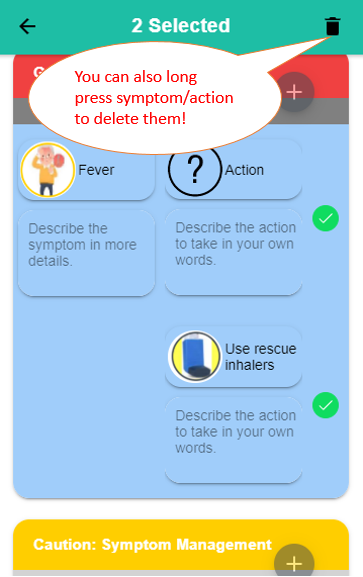
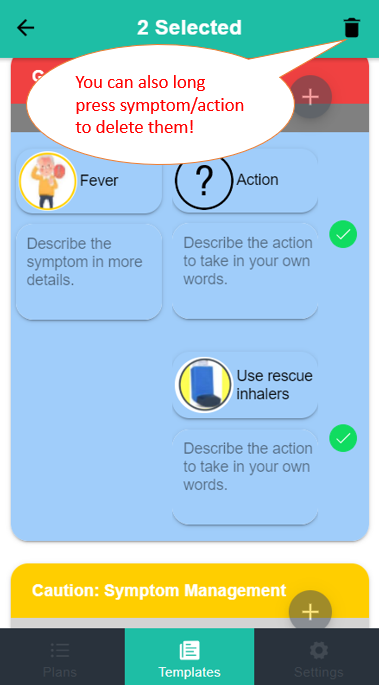
fix image validation, fix symptom action added properly, fix PDF able to export when from template create crisis plan, when press back sets plan name and language, plan details are saved if back, update search plan to be plan name and patient name, update tutorial pictures with bottom bar

diff --git a/src/app/plans/editplan/editplan.page.ts b/src/app/plans/editplan/editplan.page.ts
@@ -28,7 +28,7 @@ export class EditplanPage implements OnInit {
   }
 
   something = this.formBuilder.group({
-    detailname: ['', Validators.compose([Validators.maxLength(30), Validators.pattern(/(?!\s*$)/), Validators.required])],
+    detailname: ['', Validators.compose([Validators.maxLength(30), Validators.pattern(/(?!\s*$)/), Validators.required])],  
     detailnric: ['', Validators.compose([Validators.minLength(5), Validators.pattern(/(?!\s*$)/), Validators.required])],
     detailtcs: ['', Validators.compose([Validators.maxLength(30), Validators.pattern(/(?!\s*$)/), Validators.required])],
     detailcontact: ['', Validators.compose([Validators.minLength(5), Validators.pattern(/^[0-9]+$/), Validators.required])],
@@ -164,7 +164,7 @@ export class EditplanPage implements OnInit {
 
     let scale = 2; //https://github.com/tsayen/dom-to-image/issues/69
     domtoimage.toPng(div, { height: div.offsetHeight * 2, width: div.offsetWidth * 2, style: { transform: `scale(${scale}) translate(${div.offsetWidth / 2 / scale}px, ${div.offsetHeight / 2 / scale}px)` } }).then(dataUrl => {
-
+    
       const doc = new jsPDF('p', 'mm', 'a4', true);
       doc.deletePage(1); //https://stackoverflow.com/questions/29578721/image-in-pdf-cut-off-how-to-make-a-canvas-fit-entirely-in-a-pdf-page/42295522#42295522
       doc.addPage(millimeters.width * 2, millimeters.height * 1.95);
@@ -187,7 +187,7 @@ export class EditplanPage implements OnInit {
         this.loading.dismiss();
         this.templateService.presentToastWithOptions("PDF file has been created!");
         this.fileOpener.open(success.nativeURL, "application/pdf").catch(() => this.templateService.presentToastWithOptions("Please install a PDF Viewer such as Acrobat!"));
-      }).catch((error) => console.log("Cannot Create File " + JSON.stringify(error, null, 2)));
+      }).catch((error) => this.templateService.presentToastWithOptions("An error has occured!!!"));
     })
   }
 

diff --git a/src/app/plans/plan-details/plan-details.page.ts b/src/app/plans/plan-details/plan-details.page.ts
@@ -21,7 +21,7 @@ export class PlanDetailsPage implements OnInit {
   });
 
   constructor(private router: Router, private PlanService: PlanService, private activatedRoute: ActivatedRoute,
-    private templateService: TemplateService, public formBuilder: FormBuilder) {
+    private templateService: TemplateService, public formBuilder: FormBuilder, private planService: PlanService) {
   }
 
   planName: any;
@@ -89,6 +89,8 @@ export class PlanDetailsPage implements OnInit {
   @ViewChild('input') thisInput;
   ionViewWillEnter() {
     // this.frontViewData = this.templateService.getFrontViewData();
+    let obj = this.planService.getExtras("detailextras");
+    obj && (this.thisgroup.controls.detailname.setValue(obj.detailname), this.thisgroup.controls.detailnric.setValue(obj.detailnric), this.thisgroup.controls.detailtcs.setValue(obj.detailtcs), this.thisgroup.controls.detailcontact.setValue(obj.detailcontact));
     this.android = this.templateService.checkPlatformAndroid();
     this.planName = this.activatedRoute.snapshot.paramMap.get('planName');
     this.defaultLanguage = +this.activatedRoute.snapshot.paramMap.get("languageID");
@@ -97,8 +99,10 @@ export class PlanDetailsPage implements OnInit {
     this.thisInput.setFocus();
   }
 
-  goBackToTemplate() {
-    this.templateService.goToViewPageFromEdit();
+  goBackToNewPlan() {
+    this.PlanService.setExtras("extras", {"language": this.defaultLanguage, "name": this.planName});
+    this.PlanService.setExtras("detailextras", {"detailname": this.thisgroup.controls.detailname.value, "detailnric": this.thisgroup.controls.detailnric.value, "detailtcs": this.thisgroup.controls.detailtcs.value, "detailcontact": this.thisgroup.controls.detailcontact.value});
+    // this.templateService.goToViewPageFromEdit();
   }
 
   getArray(id) {

diff --git a/src/app/plans/new-plan/new-plan.page.ts b/src/app/plans/new-plan/new-plan.page.ts
@@ -1,3 +1,4 @@
+import { PlanService } from './../../services/plan.service';
 import { TemplateService } from 'src/app/services/template.service';
 import { Component, OnInit, Injectable, ViewChild } from '@angular/core';
 import { Router } from '@angular/router';
@@ -21,7 +22,7 @@ export class NewPlanPage implements OnInit {
   submitted=false;
   android: boolean;
 
-  constructor(private router: Router, private templateService: TemplateService, public formBuilder: FormBuilder, private event: Events) {
+  constructor(private router: Router, private templateService: TemplateService, public formBuilder: FormBuilder, private event: Events, private planService: PlanService) {
   }
 
   ngOnInit() {
@@ -43,6 +44,8 @@ export class NewPlanPage implements OnInit {
   }
 
   cancel() {
+    this.planService.resetExtras();
+    this.resetPlan();    
     this.router.navigateByUrl('/tabs/plans');
   }
 
@@ -50,14 +53,13 @@ export class NewPlanPage implements OnInit {
     this.defaultLanguage = 0;
     this.slideOneForm.reset();
     this.submitted = false;
+    this.templateService.resetArray();
   }
 
   ionViewWillEnter() {
+    let obj = this.planService.getExtras("extras");
+    obj && (this.slideOneForm.controls.firstName.setValue(obj.name), this.defaultLanguage = obj.language);
     this.android = this.templateService.checkPlatformAndroid();
-    this.event.subscribe("newPlan", () => {
-      this.resetPlan();
-      this.event.unsubscribe("newPlan");
-    })
   }
 
   ionViewDidEnter() {

diff --git a/src/app/settings/edit-settings/edit-settings.page.ts b/src/app/settings/edit-settings/edit-settings.page.ts
@@ -85,12 +85,15 @@ export class EditSettingsPage implements OnInit {
       tmName: value.tamil.trim(),
       icon: this.contentDetails.icon
     }
-    let functionToCall = this.editID == "add" ? 
-      (this.settingService.addReusable(this.selectedTab, newValues), this.templateService.presentToastWithOptions("Added " + this.selectedTab.toLowerCase()))
-      : (this.settingService.updateOneSetting(this.selectedTab, newValues), this.templateService.presentToastWithOptions("Updated " + this.selectedTab.toLowerCase()))
-    functionToCall.then(() => {
-      this.goBack();
-    })
+    this.editID == "add" ? 
+      this.settingService.addReusable(this.selectedTab, newValues).then(() => {
+        this.templateService.presentToastWithOptions("Added " + this.selectedTab.toLowerCase());
+        this.router.navigate(['/tabs/settings/symptomAction']);
+      }) :
+      this.settingService.updateOneSetting(this.selectedTab, newValues).then(() => {
+        this.templateService.presentToastWithOptions("Updated " + this.selectedTab.toLowerCase());
+        this.router.navigate(['/tabs/settings/symptomAction']);
+      });
   }
 
   goBack() {

diff --git a/src/app/tabs/tabs.page.ts b/src/app/tabs/tabs.page.ts
@@ -1,6 +1,7 @@
 import { Component, OnInit } from '@angular/core';
 import { NavController } from '@ionic/angular';
 import { TemplateService } from '../services/template.service';
+import { PlanService } from '../services/plan.service';
 
 @Component({
   selector: 'app-tabs',
@@ -9,7 +10,7 @@ import { TemplateService } from '../services/template.service';
 })
 export class TabsPage implements OnInit {
 
-  constructor(private navCtrl: NavController, private templateService: TemplateService) { }
+  constructor(private navCtrl: NavController, private templateService: TemplateService, private planService: PlanService) { }
 
   styles = ['color: green', 'background: yellow'].join(";");
 
@@ -17,6 +18,7 @@ export class TabsPage implements OnInit {
 
   goToRoot(location) {
     let rootLocations = ["/tabs/plans", "/tabs/templates", "/tabs/settings"];
+    this.planService.resetExtras();
     this.navCtrl.navigateRoot(rootLocations[location]);
   }
 

diff --git a/src/app/plans/view-plans/view-plans.page.ts b/src/app/plans/view-plans/view-plans.page.ts
@@ -36,7 +36,8 @@ export class ViewPlansPage implements OnInit {
 
   //search item(s)
   setFilteredItems() {
-    this.sortedDetails = this.details.filter(result => result.planName.toLowerCase().indexOf(this.searchTerm.toLowerCase()) !== -1);
+    this.sortedDetails = this.details.filter(result => 
+      result.planName.toLowerCase().indexOf(this.searchTerm.toLowerCase()) !== -1 || result.name.toLowerCase().indexOf(this.searchTerm.toLowerCase()) !== -1);
     this.mylist.closeSlidingItems();
     // this.PlanService.getPlanFilter(this.searchTerm).then(sname => {
     //   this.mylist.closeSlidingItems();
@@ -48,7 +49,7 @@ export class ViewPlansPage implements OnInit {
 
   //redirect
   onClick() {
-    this.router.navigateByUrl('/tabs/plans/newPlan').then(() => this.event.publish("newPlan"))
+    this.router.navigateByUrl('/tabs/plans/newPlan');
   }
 
   goEdit(item) {

diff --git a/src/app/services/plan.service.ts b/src/app/services/plan.service.ts
@@ -12,6 +12,20 @@ export class PlanService {
 
   constructor(private storage: Storage, private templateService: TemplateService) {
   }
+  
+  extras:any;
+  detailextras: any;
+
+  setExtras(type, data) {
+    type == "extras" ? this.extras = data : this.detailextras = data;
+  }
+  getExtras(type) {
+    return type == "extras" ? this.extras : this.detailextras
+  }
+  resetExtras() {
+    this.extras = null;
+    this.detailextras = null;
+  }
 
   getEditDetails(id) {
     return this.storage.get(key).then(result => {

diff --git a/src/app/templates/new-templates/new-templates.page.ts b/src/app/templates/new-templates/new-templates.page.ts
@@ -132,7 +132,7 @@ export class NewTemplatesPage implements OnInit {
           })
         }
         else if (typeOfAction == "Create Crisis Plan") {
-          this.router.navigateByUrl("/tabs/plans/details/" + this.defaultLanguage + "/" + alertData);
+          this.router.navigateByUrl("/tabs/plans/details/" + this.defaultLanguage + "/" + alertData, {replaceUrl: true});
         }
         else {
           this.addTemplate(alertData);

diff --git a/src/app/plans/plan-details/plan-details.page.html b/src/app/plans/plan-details/plan-details.page.html
@@ -3,7 +3,7 @@
     <ion-toolbar color="primary" *ngIf="checked.length == 0">
   
       <ion-buttons slot="start">
-        <ion-back-button defaultHref="/tabs/templates/new" (click)="goBackToTemplate()"></ion-back-button>
+        <ion-back-button defaultHref="/tabs/plans/newPlan" (click)="goBackToNewPlan()"></ion-back-button>
       </ion-buttons>
   
       <ion-title>

diff --git a/src/app/settings/tutorial/tutorial.page.ts b/src/app/settings/tutorial/tutorial.page.ts
@@ -31,7 +31,7 @@ export class TutorialPage implements OnInit {
   getStarted() {
     this.selectedTab == "templates" ? 
       this.router.navigateByUrl("/tabs/templates/new") 
-      : this.router.navigateByUrl("/tabs/plans/newPlan").then(() => this.event.publish("newPlan"))
+      : this.router.navigateByUrl("/tabs/plans/newPlan")
   }
 
   @ViewChild('slider') slider;

diff --git a/src/app/services/template.service.ts b/src/app/services/template.service.ts
@@ -64,10 +64,6 @@ export class TemplateService {
   checked = [];
   appointment = [];
 
-  refreshAppt() {
-    this.appointment = this.appointment.filter(x => x.clinicName);
-    return this.appointment;
-  }
   getApptArray = () => this.appointment;
   newAppt() {
     let apptObj = {

diff --git a/src/app/services/symptomaction.service.ts b/src/app/services/symptomaction.service.ts
@@ -35,7 +35,7 @@ export class SymptomActionService {
   }
 
 
-  async addReusable(type, item) {
+  addReusable(type, item) {
     if (type == "Symptom") {
       var settingObj: Setting = {
         id: uuid(),
